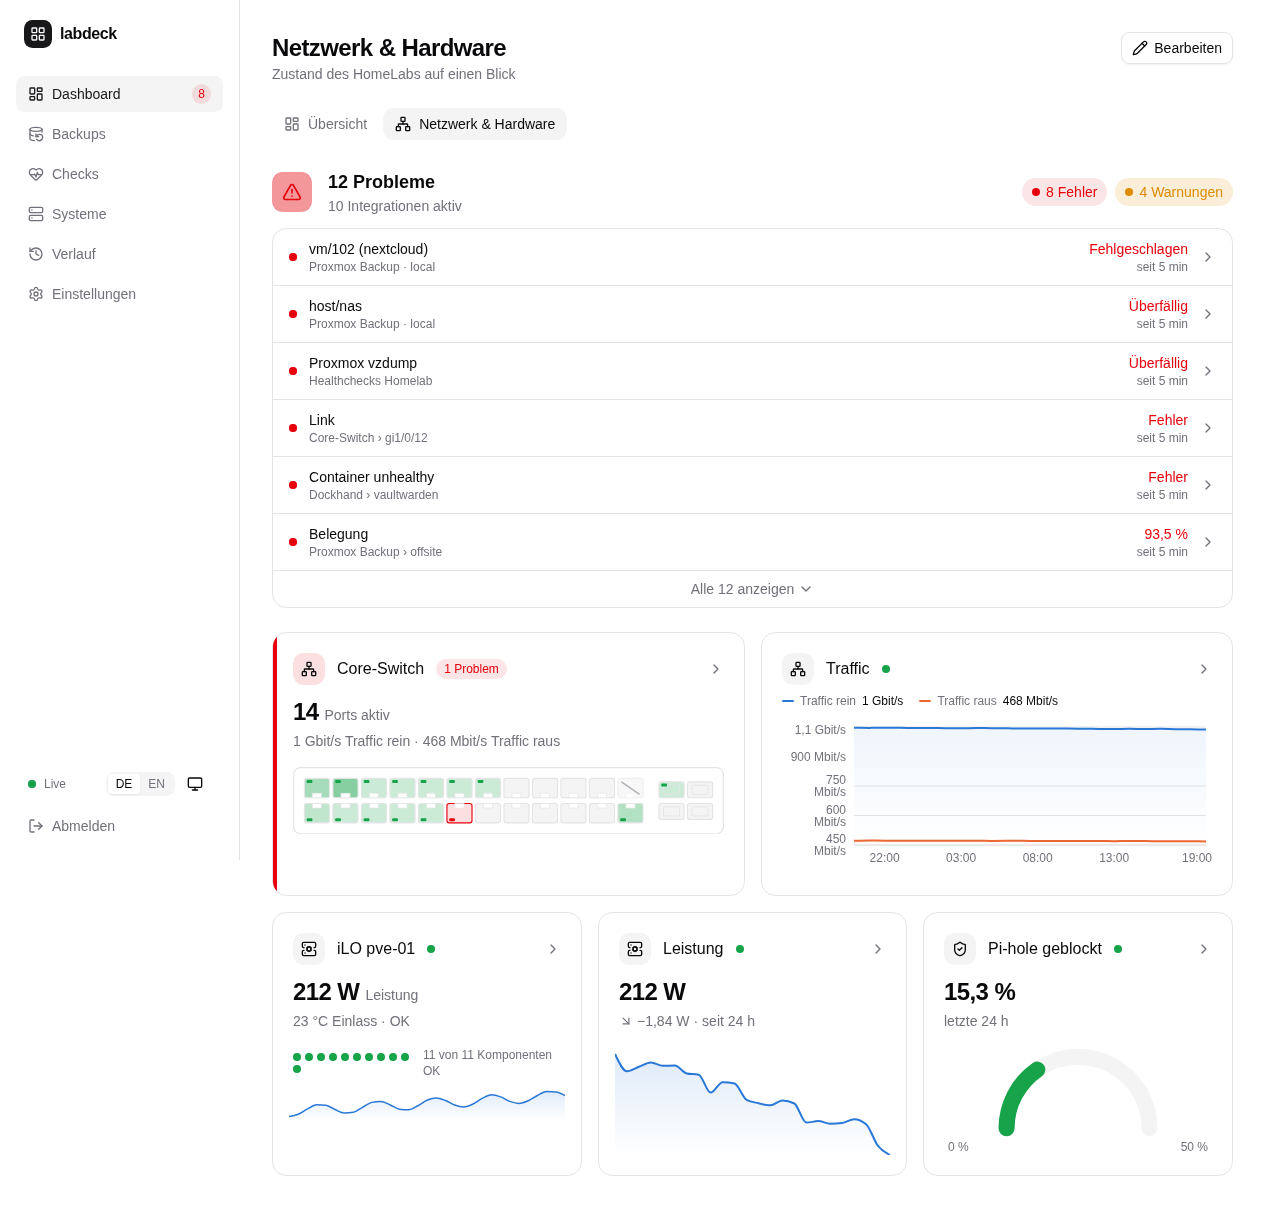
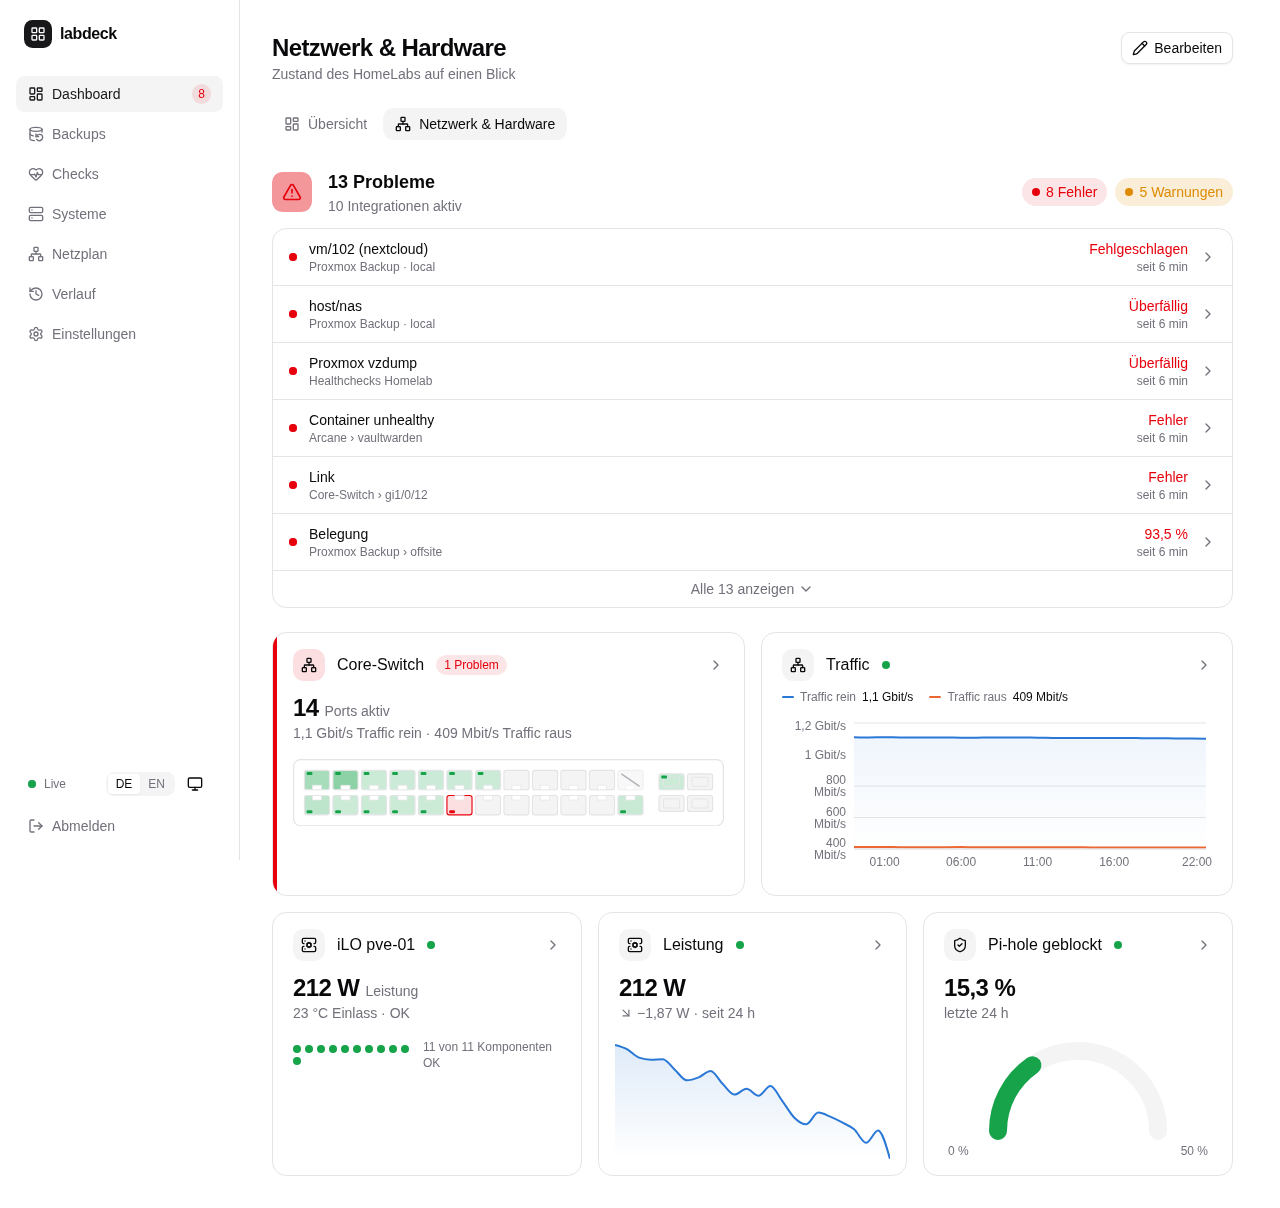
Netzplan: Kabel durch die Spaltenlücken, Doku und Screenshots
Liegt das Ziel unter einer anderen Karte, läuft das Kabel durch die Lücke
zwischen den Spalten statt unsichtbar hinter der Karte. README (DE/EN),
CLAUDE.md und Changelog um Netzplan und LLDP/VLANs ergänzt; Screenshots neu
(Dashboard im neuen Raster, Netzplan neu).

diff --git a/web/src/components/topology/TopologyView.tsx b/web/src/components/topology/TopologyView.tsx
@@ -231,7 +231,15 @@ function LinkLayer({ links, vlans, container }: { links: TopoLink[]; vlans: Topo
       const r = el.getBoundingClientRect()
       // Unterkante der Karte: waagerechte Stücke laufen darunter, nicht hinter ihr
       const card = (el.closest('[data-anchor-device]') ?? el).getBoundingClientRect()
-      return { x: r.left - base.left + r.width / 2, top: r.top - base.top, bottom: r.bottom - base.top, card: card.bottom - base.top }
+      return {
+        x: r.left - base.left + r.width / 2,
+        top: r.top - base.top,
+        bottom: r.bottom - base.top,
+        card: card.bottom - base.top,
+        left: card.left - base.left,
+        right: card.right - base.left,
+        el: el.closest('[data-anchor-device]'),
+      }
     }
     // Kabel zwischen denselben Ebenen auf eigene Höhen verteilen (keine deckungsgleichen Linien)
     const raw = links.flatMap((l) => {
@@ -241,6 +249,13 @@ function LinkLayer({ links, vlans, container }: { links: TopoLink[]; vlans: Topo
       const [u, d] = a.top <= b.top ? [a, b] : [b, a]
       return [{ l, u, d }]
     })
+    // Karten als Hindernisse: ein senkrechtes Kabel darf nicht hinter einer fremden Karte verlaufen
+    const cards = [...container.querySelectorAll<HTMLElement>('[data-anchor-device]')].map((c) => {
+      const r = c.getBoundingClientRect()
+      return { c, left: r.left - base.left, right: r.right - base.left, top: r.top - base.top, bottom: r.bottom - base.top }
+    })
+    const blocked = (x: number, from: number, to: number, except: Element | null) =>
+      cards.some((k) => k.c !== except && k.left - 2 < x && x < k.right + 2 && k.top < to && k.bottom > from)
     const lanes = new Map<number, number>()
     const out: Drawn[] = []
     for (const r of raw.sort((x, y) => x.u.x - y.u.x)) {
@@ -259,6 +274,13 @@ function LinkLayer({ links, vlans, container }: { links: TopoLink[]; vlans: Topo
       }
       const gap = y2 - r.u.card
       const ym = r.u.card + Math.max(6, Math.min(gap - 10, 12 + (n % 6) * 6))
+      if (blocked(r.d.x, ym, y2, r.d.el)) {
+        // Ziel liegt unter einer anderen Karte: durch die Lücke zwischen den Spalten, kurz vor dem Ziel einbiegen
+        const gx = r.d.left - 8 > 4 ? r.d.left - 8 : r.d.right + 8
+        const yt = y2 - 8
+        out.push({ l: r.l, w, d: `M${r.u.x},${y1} V${ym} H${gx} V${yt} H${r.d.x} V${y2}`, lx: r.d.x, ly: y2 - 4 })
+        continue
+      }
       out.push({ l: r.l, w, d: `M${r.u.x},${y1} V${ym} H${r.d.x} V${y2}`, lx: r.d.x, ly: y2 - 4 })
     }
     setDrawn(out)

diff --git a/README.de.md b/README.de.md
@@ -53,7 +53,8 @@ Schwesterprojekt von [dnsdeck](https://github.com/mrcdlm/dnsdeck) – gleiche Op
   ausgeschalteter Laptop ist also kein Alarm. Reverse-Proxy-Dienste mit Status und Zertifikat.
 - **Switches per SNMP** (v2c/v3) – jeder Switch mit Standard-MIBs (Cisco C1300, UniFi, MikroTik,
   TP-Link, Netgear …): schematische Front mit RJ45/SFP-Ports, Link, Geschwindigkeit, Traffic,
-  Auslastung und Fehler je Port; überwachte Ports (mit Beschreibung oder ausgewählt) als Problem.
+  Auslastung und Fehler je Port; überwachte Ports (mit Beschreibung oder ausgewählt) als Problem;
+  LLDP-Nachbarn und VLANs je Port (LLDP-MIB, Q-BRIDGE-MIB) für den Netzplan.
 - **Server-Hardware per Redfish** – HPE iLO, Dell iDRAC, Lenovo XCC, Supermicro: Zustand je
   Komponente, Netzteile, Lüfter, Temperaturen, Laufwerke/RAID mit SSD-Restlebensdauer, Leistung.
 - **Pi-hole** (v6) – Anfragen, geblockt %, Clients, Alter der Blockliste, Blocken an/aus, Updates.
@@ -62,6 +63,11 @@ Schwesterprojekt von [dnsdeck](https://github.com/mrcdlm/dnsdeck) – gleiche Op
   eine Detailseite mit allem, was sie liefert: Kennzahlen und Diagramme (24 Stunden bis 1 Jahr;
   Rohwerte 30 Tage, Tageswerte 1 Jahr, einstellbar), Hosts und Gäste, Hardware, Switch-Front
   und Tabellen.
+- **Netzplan** – entsteht aus den Integrationen: Switches mit Ports und VLANs, Kabel per LLDP,
+  Proxmox- und Docker-Hosts mit ihren Gästen, Server-Hardware, Dienste. Was sie nicht kennen
+  (Router, Firewall, Access Point, Kabel, VLAN-Farben und Subnetze), ergänzt du im UI.
+  Linienbreite = Geschwindigkeit, Farbe = VLAN, Trunks als Doppellinie; überall Live-Status.
+  Export als PNG oder SVG mit geschwärzten IPs und Domains – fertig zum Teilen.
 - **Verlauf** – Statuswechsel und Fehler aller Integrationen, filterbar.
 - **Benachrichtigungen per Webhook** – Vorlagen für ntfy, Gotify, Discord, Slack, Telegram und
   Home Assistant; Check down/wieder up, Backup überfällig/fehlgeschlagen/wieder OK,
@@ -79,6 +85,8 @@ Schwesterprojekt von [dnsdeck](https://github.com/mrcdlm/dnsdeck) – gleiche Op
 | Backups | Checks | Systeme | Verlauf |
 |---|---|---|---|
 | ![Backups](docs/screenshots/backups.de.png) | ![Checks](docs/screenshots/checks.de.png) | ![Systeme](docs/screenshots/systems.de.png) | ![Verlauf](docs/screenshots/history.de.png) |
+
+![Netzplan](docs/screenshots/network.de.png)
 
 ## Schnellstart
 

diff --git a/README.md b/README.md
@@ -51,7 +51,8 @@ Sister project of [dnsdeck](https://github.com/mrcdlm/dnsdeck) – same look, sa
   Reverse proxy services with status and certificate.
 - **Switches via SNMP** (v2c/v3) – any switch with standard MIBs (Cisco C1300, UniFi, MikroTik,
   TP-Link, Netgear …): schematic front panel with RJ45/SFP ports, link, speed, traffic,
-  utilisation and errors per port; monitored ports (with a description or selected) as problems.
+  utilisation and errors per port; monitored ports (with a description or selected) as problems;
+  LLDP neighbours and VLANs per port (LLDP-MIB, Q-BRIDGE-MIB) for the network map.
 - **Server hardware via Redfish** – HPE iLO, Dell iDRAC, Lenovo XCC, Supermicro: health per
   component, power supplies, fans, temperatures, drives/RAID with SSD remaining life, power draw.
 - **Pi-hole** (v6) – queries, blocked %, clients, blocklist age, blocking on/off, updates.
@@ -60,6 +61,11 @@ Sister project of [dnsdeck](https://github.com/mrcdlm/dnsdeck) – same look, sa
   one detail page with everything it delivers: metrics and charts (24 hours to 1 year; raw
   values 30 days, daily values 1 year, configurable), hosts and guests, hardware, switch front
   panel and tables.
+- **Network map** – builds itself from your integrations: switches with ports and VLANs, cables
+  from LLDP, Proxmox and Docker hosts with their guests, server hardware, services. Add what
+  they don't know (router, firewall, access point, cables, VLAN colours and subnets) in the UI.
+  Line width shows link speed, colour the VLAN, trunks are drawn as double lines; live status
+  everywhere. Export as PNG or SVG with IPs and domains redacted – ready to share.
 - **History** – status changes and errors of all integrations, filterable.
 - **Notifications via webhooks** – presets for ntfy, Gotify, Discord, Slack, Telegram and
   Home Assistant; check down/up, backup overdue/failed/OK again, integration
@@ -76,6 +82,8 @@ Sister project of [dnsdeck](https://github.com/mrcdlm/dnsdeck) – same look, sa
 | Backups | Checks | Systems | History |
 |---|---|---|---|
 | ![Backups](docs/screenshots/backups.en.png) | ![Checks](docs/screenshots/checks.en.png) | ![Systems](docs/screenshots/systems.en.png) | ![History](docs/screenshots/history.en.png) |
+
+![Network map](docs/screenshots/network.en.png)
 
 ## Quick start
 

diff --git a/CLAUDE.md b/CLAUDE.md
@@ -120,6 +120,8 @@ Neue Quellen sprechen offene Protokolle; Herstellerspezifisches nur als optional
 - **SNMP** (`snmp`): v2c/v3, nur RFC-MIBs (SNMPv2-MIB, IF-MIB, ENTITY-MIB). Referenz Cisco C1300, jeder Switch passt.
   Frontbild (RJ45/SFP, Einheit, Position) aus ENTITY-MIB, sonst aus Portnamen/Modellname; Feld *Frontlayout* überschreibt.
   Ports: Ressourcen `kind=port` unter `kind=switch`; Raten aus 64-Bit-Zählern (Zustand im Speicher).
+  Für den Netzplan zusätzlich LLDP-MIB (Nachbar je Port) und BRIDGE-/Q-BRIDGE-MIB (PVID, getaggte VLANs,
+  VLAN-Namen) – optional, 5 min zwischengespeichert; Infos `lldp_*`, `pvid`, `vlans` am Port.
 - **Redfish** (`redfish`): DMTF-Felder, Pfade nur aus `@odata.id` (keine festen IDs). Referenz HPE iLO 5 mit
   `Oem.Hpe.AggregateHealthStatus` und SmartStorage; iDRAC, XCC, Supermicro über dieselben DMTF-Felder.
   Ressource `kind=server` (iLO liefert keine CPU-/RAM-Auslastung → kein „Host“).
@@ -146,6 +148,11 @@ Neue Quellen sprechen offene Protokolle; Herstellerspezifisches nur als optional
   Ressourcen. **Eine Detailseite je Integration** (`/systeme/:id`) mit allem: Probleme, Kennzahlen + Diagramm,
   Hosts/Gäste, Hardware, Switch-Front, Tabellen. Jede Information hat genau einen Ort – keine zweite Seite mit
   denselben Daten anlegen. `/dienste` und `/ressourcen` leiten weiter.
+- **Netzplan** (`/netz`, `GET/PUT /api/topology`): Ebenen Internet → Router/Firewall → Switches → Geräte.
+  Geräte live aus Integrationen (Switch, Host, Server; Server mit Host gleichen Namens zusammengeführt), Kabel
+  aus LLDP; gepflegt (JSON-Einstellung `topology`): eigene Geräte, Kabel (Vorrang vor LLDP), VLAN-Farben/
+  Subnetze, Zuordnungen (`res:…`, `lldp:…`, `int:…` → Gerät), ausgeblendete Geräte. Linienbreite =
+  Speed, Farbe = VLAN (`--vlan-1…6`, validiert), Kabeltabelle als Alternative, Export PNG/SVG mit Schwärzen.
 - **Verlauf:** Statuswechsel und Fehler aller Integrationen, filterbar
 - **Einstellungen:**
   - *Integrationen:* hinzufügen (Typ wählen → Formular aus Schema), bearbeiten, „Verbindung testen“, aktivieren/deaktivieren, löschen

diff --git a/CHANGELOG.md b/CHANGELOG.md
@@ -15,6 +15,16 @@ and this project adheres to [Semantic Versioning](https://semver.org/spec/v2.0.0
   integration's tile joins its area instead of the first free spot.
 
 ### Added
+- **Network map** (`/netz`): devices in tiers (internet → router/firewall → switches → devices),
+  built live from your integrations – switches with ports and VLANs, cables from LLDP, Proxmox VE
+  and Arcane hosts with their guests, Redfish hardware merged into the host of the same name,
+  NetBird's public services and VPN peers. Add what they don't know in the editor: your own
+  devices (router, firewall, access point …) with ports, cables, VLAN names, colours and subnets;
+  assign unknown LLDP neighbours, services (e.g. Immich runs on docker01) and merge or hide
+  devices. Line width shows the speed, colour the untagged VLAN, trunks are double lines,
+  missing links dashed; all cables also as a table. Export as PNG or SVG, optionally with IPs,
+  subnets and domains redacted.
+- SNMP: LLDP neighbours (LLDP-MIB) and VLANs per port (BRIDGE-/Q-BRIDGE-MIB), optional.
 - "Arrange automatically" in edit mode: rearranges the tiles of a dashboard by area (saved only
   with "Done"), e.g. to get the new layout for an existing dashboard.
 
